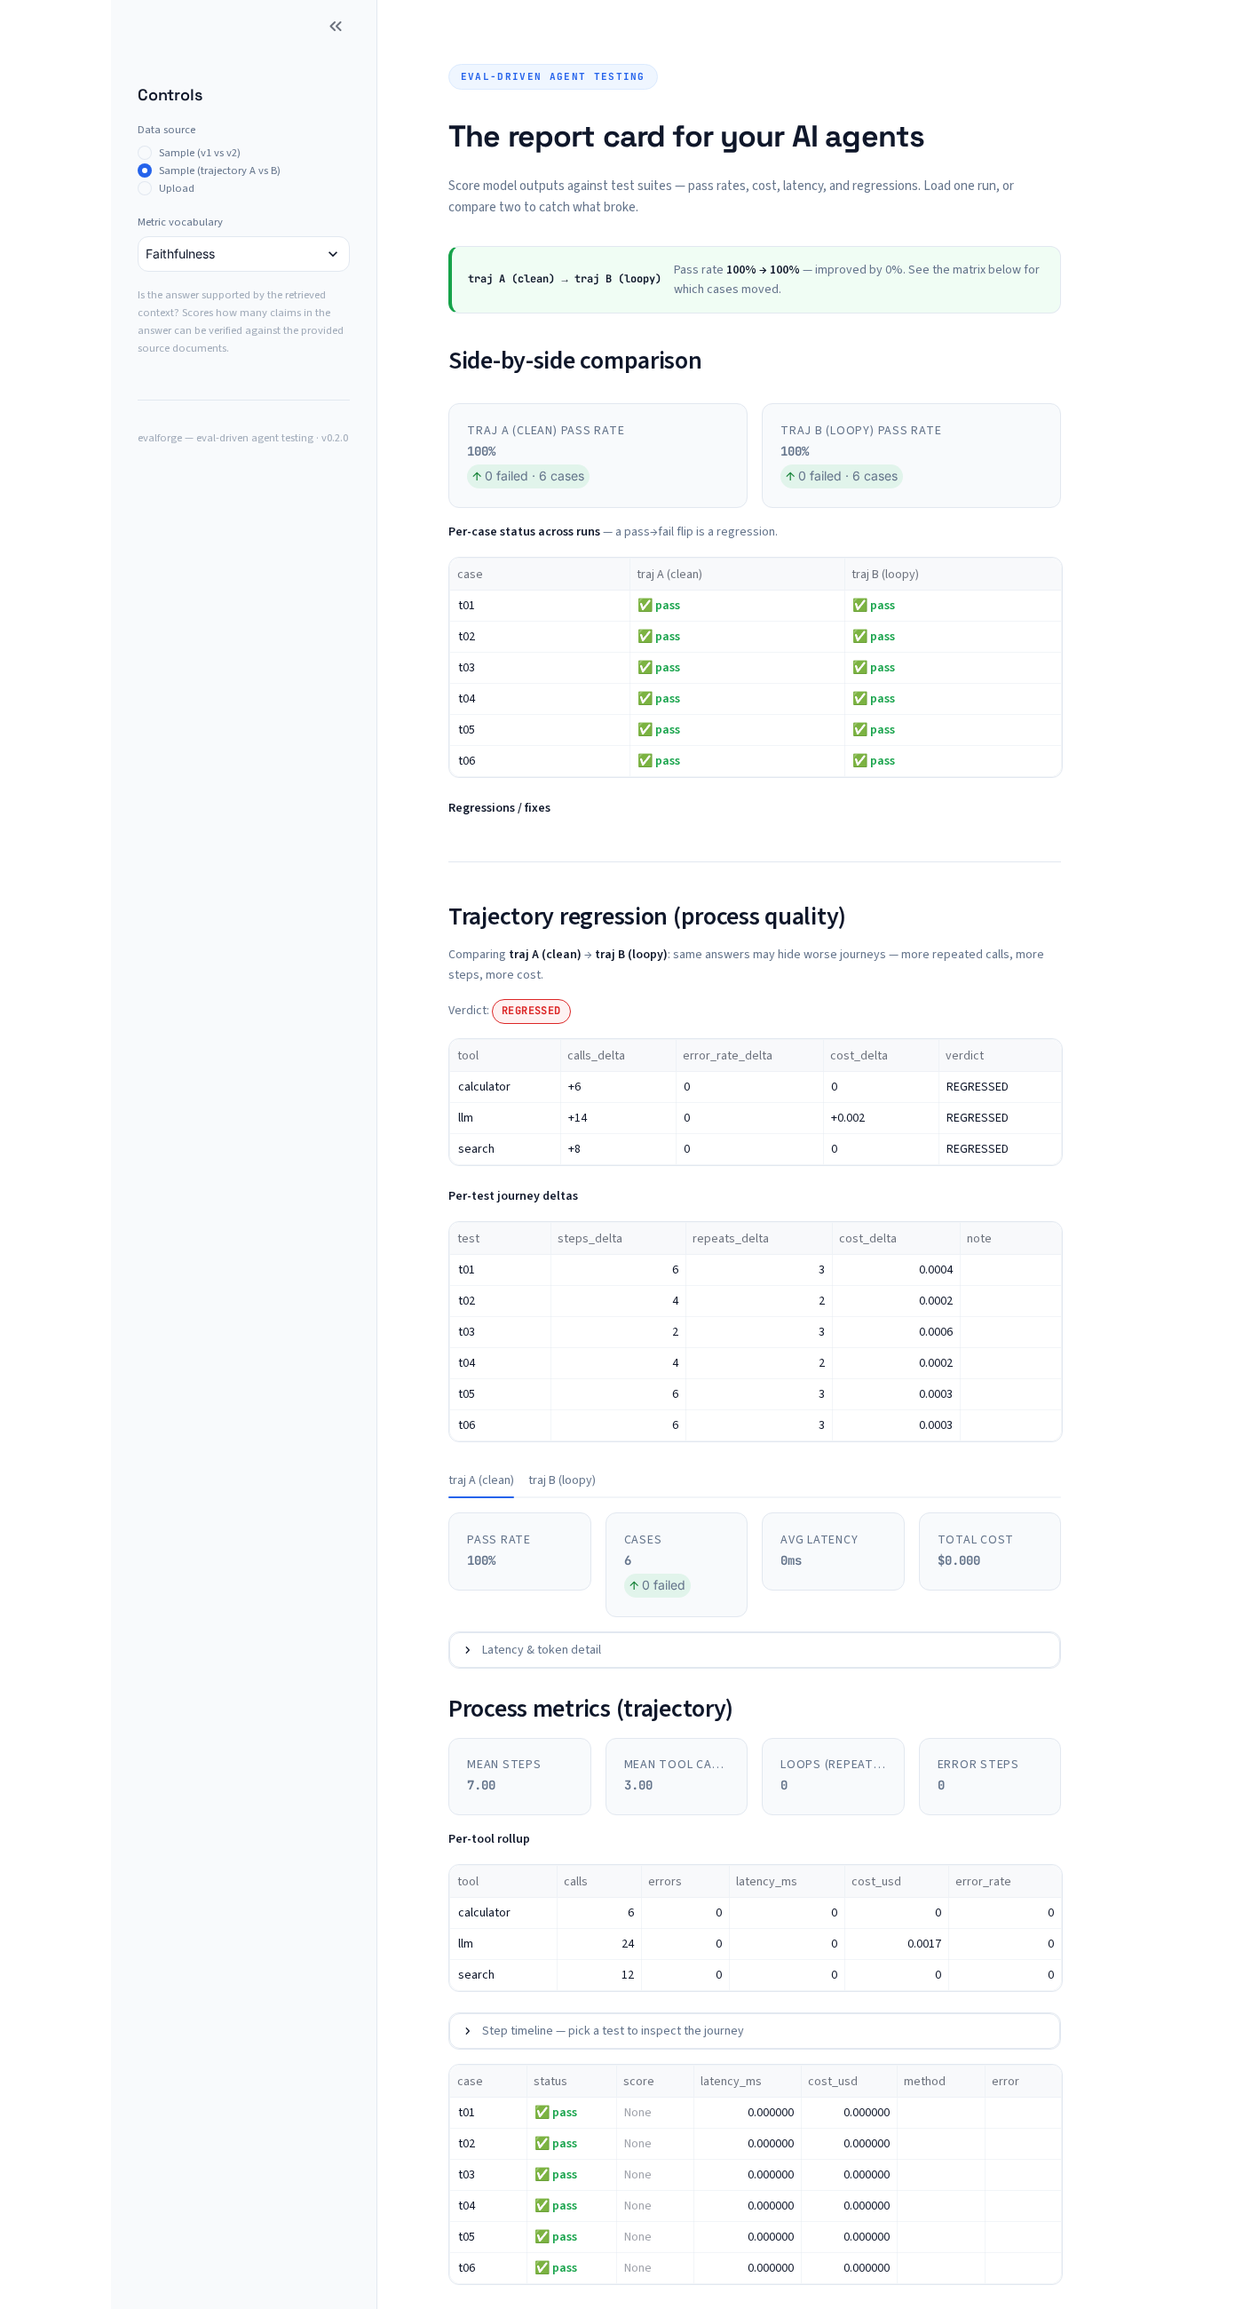
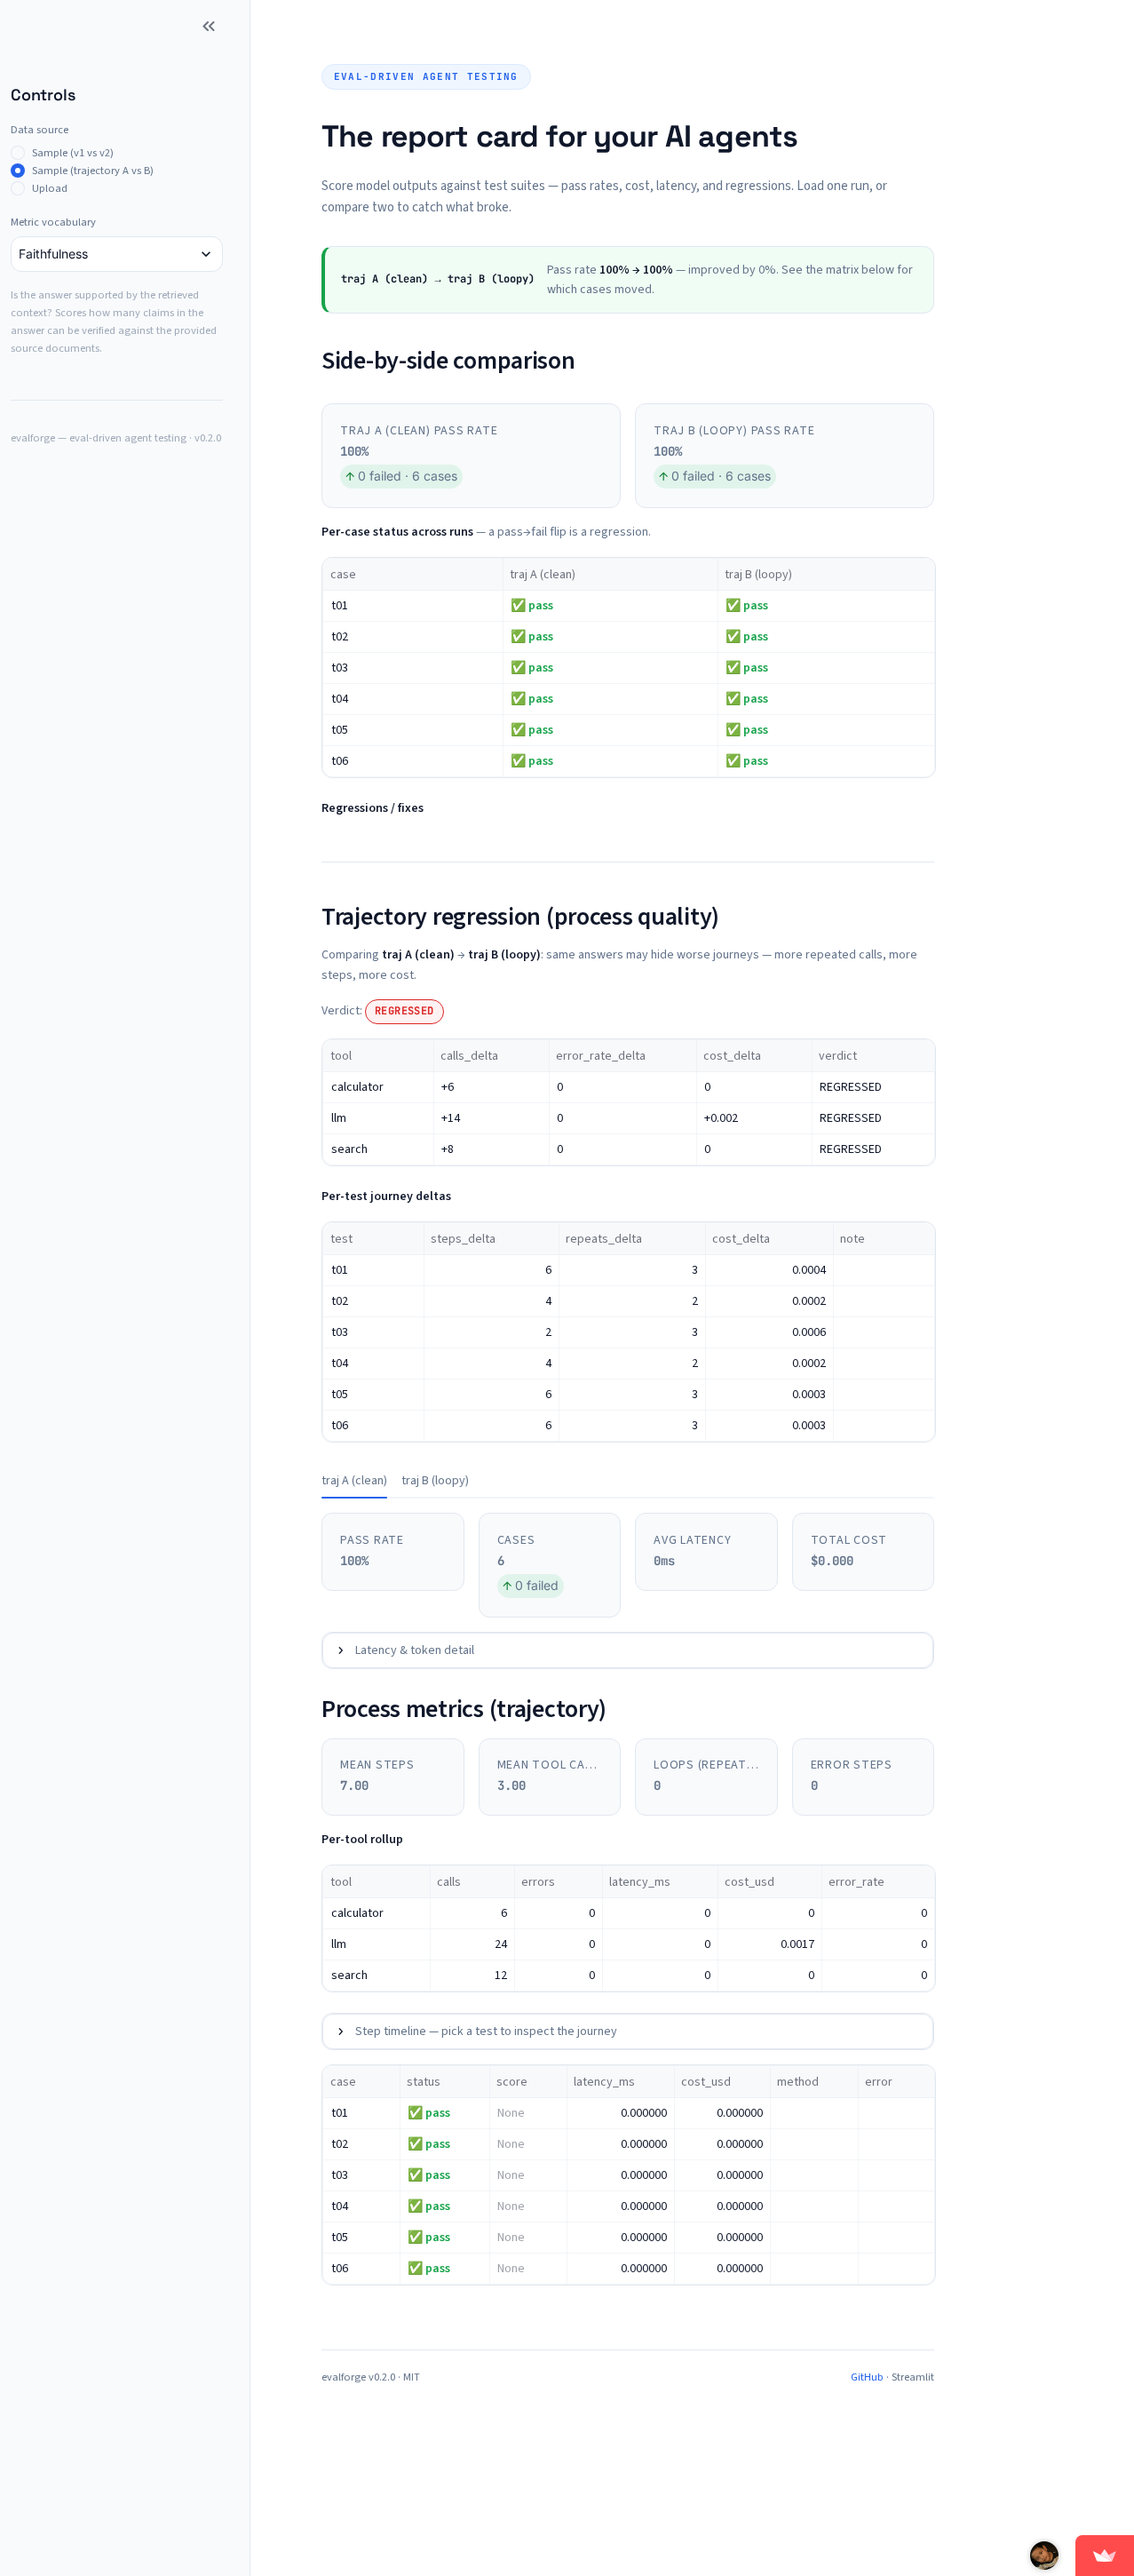
docs: rebuild README from ground up with fresh v0.2.0 screenshots
- New dashboard.png: live capture of current app (v1-vs-v2 comparison, pass-rate cards, regression matrix)
- New trajectory-compare.png: live capture of trajectory A-vs-B view (process metrics, verdict badge)
- Reorganized sections (What it does / Screenshots / Features / Web Dashboard / Versions)
- Added trajectory CLI commands to command table, trajectory layer to architecture diagram

diff --git a/README.md b/README.md
@@ -6,21 +6,21 @@
 </p>
 
 <h1 align="center">⚒ EvalForge</h1>
-<p align="center"><em>The report card for your AI agents.</em></p>
+<p align="center"><em>The report card for your AI agents — grades the answer <strong>and</strong> the journey.</em></p>
 
 <p align="center">
   <a href="https://evalforge-wmdbf6rtfxjzh668zugy9d.streamlit.app/"><strong>🚀 Try the Live Demo</strong></a> ·
-  <a href="#how-it-works"><strong>How it works</strong></a> ·
+  <a href="#what-it-does"><strong>What it does</strong></a> ·
   <a href="#quick-start"><strong>Quickstart</strong></a> ·
   <a href="#features"><strong>Features</strong></a> ·
-  <a href="#who-is-this-for"><strong>Who is this for</strong></a> ·
+  <a href="#versions"><strong>Versions</strong></a> ·
   <a href="SPEC.md"><strong>Spec</strong></a> ·
   <a href="ARCHITECTURE.md"><strong>Architecture</strong></a>
 </p>
 
 ---
 
-## What is this?
+## What it does
 
 **EvalForge checks whether AI agents actually work — before you trust them.**
 
@@ -33,11 +33,28 @@ Think of it as **unit tests for AI**. You define a list of questions your custom
 - How fast is it? How much does it cost per answer?
 - If you change your agent (new model, new prompt), did anything that used to work *break*?
 
+**v0.2.0 adds the journey:** beyond the final answer, EvalForge grades *how* the agent got there — steps taken, tool calls, loops, errors, and per-tool cost. Two versions can have the **same pass rate** and still differ massively in process. EvalForge catches that.
+
+---
+
+## Screenshots
+
+### Dashboard — compare two versions, catch regressions
+
 <div align="center">
   <a href="https://evalforge-wmdbf6rtfxjzh668zugy9d.streamlit.app/">
-    <img src="assets/dashboard.png" alt="EvalForge dashboard — comparing two versions of an AI agent and catching a regression" width="700">
+    <img src="assets/dashboard.png" alt="EvalForge dashboard — side-by-side comparison of two agent versions with pass-rate cards and a regression matrix" width="700">
   </a>
-  <p><em>Live app: compare two versions of an agent and catch regressions in seconds.</em></p>
+  <p><em>Live app: summary cards, per-case comparison table, and regressions flagged in red.</em></p>
+</div>
+
+### Trajectory view — grade the journey, not just the answer (v0.2.0)
+
+<div align="center">
+  <a href="https://evalforge-wmdbf6rtfxjzh668zugy9d.streamlit.app/">
+    <img src="assets/trajectory-compare.png" alt="EvalForge trajectory regression — same pass rate, worse process (loops), caught by process metrics" width="700">
+  </a>
+  <p><em>Process metrics per run, per-tool rollup, step timeline, and a REGRESSED / ok verdict on the journey.</em></p>
 </div>
 
 ---
@@ -58,17 +75,6 @@ Think of it as **unit tests for AI**. You define a list of questions your custom
 - **You define what "right" means** — no AI needed for that, just knowledge of your business
 - **EvalForge does the checking** — deterministically and consistently, every time
 - **The dashboard is the scoreboard** — see everything in one view, or compare two versions side-by-side
-
----
-
-## Who is this for?
-
-- **Founders** — prove your AI feature actually works before launch, and catch it silently degrading after
-- **ML/AI Engineers** who ship LLM features and need to show they work
-- **RAG pipeline builders** — evaluate retrieval + generation quality independently
-- **Multi-agent system architects** — benchmark orchestration quality
-- **Platform teams** who want a CI gate for LLM changes
-- **Freelancers** doing LLM integration — show clients measurable quality
 
 ---
 
@@ -104,24 +110,6 @@ evalforge compare run_a.json run_b.json --trajectory --fail-on-trajectory-regres
 streamlit run evalforge/ui/streamlit_app.py
 ```
 
-## 📊 Web Dashboard
-
-Explore evaluation results without touching the CLI. Load one run for metrics, or two runs for a side-by-side regression matrix. From v0.2.0 you can also load trajectory exports and compare **process quality**, not just final answers.
-
-**Live demo (v0.2.0):** https://evalforge-wmdbf6rtfxjzh668zugy9d.streamlit.app/
-
-- **Summary cards** — pass rate, case count, avg latency, total cost
-- **Per-case table** — status-highlighted results (pass/fail/error) with scores, latency, cost
-- **Regression matrix** — load v1 vs v2 and see exactly which cases flipped pass→fail (regression) or fail→pass (fixed)
-- **Trajectory report card** — process metrics per run: mean steps, mean tool calls, loop count, error steps, per-tool rollup (calls, errors, latency, cost)
-- **Step timeline** — every tool call with its args, result, latency, and errors
-- **Trajectory regression** — compare two runs on process quality with a REGRESSED/ok verdict: same pass rate, worse journey → caught (see the built-in sample)
-- **Latency percentiles** — p50/p95/p99 + token usage under the hood
-- **RAGAS-style metric presets** — industry-standard rubric vocabulary (faithfulness, answer relevancy, context precision, context recall, answer correctness) built in as LLM-judge rubric templates — no extra dependency
-- **Upload support** — drop in your own `RunResult` JSON files or trajectory exports, or use the built-in v1/v2 sample regression story and the trajectory A vs B sample
-
-<img src="assets/trajectory-compare.png" alt="EvalForge v0.2.0 trajectory regression — same pass rate, worse process (loops), caught by process metrics" width="700">
-
 ---
 
 ## Features
@@ -132,7 +120,7 @@ Explore evaluation results without touching the CLI. Load one run for metrics, o
 
 ### 🛤 Grade the journey, not just the answer (v0.2.0)
 - **Process report card** — every run gets process metrics: convergence, steps/tool-calls per task, loop count (identical repeated calls), tool validity, error recovery, per-tool cost & latency, budget adherence
-- **Trajectory regression** — compare two runs and get a REGRESSED/ok verdict on process quality: "pass rate identical, but the new version loops 3× more on hard questions" is caught automatically
+- **Trajectory regression** — compare two runs and get a REGRESSED / ok verdict on process quality: *"pass rate identical, but the new version loops 3× more on hard questions"* is caught automatically
 - **Capture how you like** — record as your agent runs (drop-in client shims, one-line `emit_step`), or import a trajectory JSON/JSONL export from any agent (OTel-style span shape accepted)
 - **Pure-code metrics** — no LLM-as-judge for process quality; every number is deterministic and reproducible
 - **CI gate on process** — `compare --trajectory --fail-on-trajectory-regression` exits 1 when the journey degrades even if pass rate holds
@@ -156,6 +144,24 @@ Explore evaluation results without touching the CLI. Load one run for metrics, o
 - **LLM Clients**: DeepSeek, OpenAI, Anthropic — add providers via base class
 - **Reporters**: JSON, Console, Diff — add formats via base class
 - **Trackers**: Cost, Latency — add metrics via base class
+
+---
+
+## Web Dashboard
+
+Explore evaluation results without touching the CLI. Load one run for metrics, or two runs for a side-by-side regression matrix. From v0.2.0 you can also load trajectory exports and compare **process quality**, not just final answers.
+
+**Live demo (v0.2.0):** https://evalforge-wmdbf6rtfxjzh668zugy9d.streamlit.app/
+
+- **Summary cards** — pass rate, case count, avg latency, total cost
+- **Per-case table** — status-highlighted results (pass/fail/error) with scores, latency, cost
+- **Regression matrix** — load v1 vs v2 and see exactly which cases flipped pass→fail (regression) or fail→pass (fixed)
+- **Trajectory report card** — process metrics per run: mean steps, mean tool calls, loop count, error steps, per-tool rollup (calls, errors, latency, cost)
+- **Step timeline** — every tool call with its args, result, latency, and errors
+- **Trajectory regression** — compare two runs on process quality with a REGRESSED / ok verdict: same pass rate, worse journey → caught (see the built-in sample)
+- **Latency percentiles** — p50/p95/p99 + token usage under the hood
+- **RAGAS-style metric presets** — industry-standard rubric vocabulary (faithfulness, answer relevancy, context precision, context recall, answer correctness) built in as LLM-judge rubric templates — no extra dependency
+- **Upload support** — drop in your own `RunResult` JSON files or trajectory exports, or use the built-in v1/v2 sample regression story and the trajectory A-vs-B sample
 
 ---
 
@@ -188,6 +194,8 @@ tests:
             weight: 0.3
 ```
 
+---
+
 ## CLI Commands
 
 | Command | Description |
@@ -195,45 +203,14 @@ tests:
 | `evalforge init` | Scaffold a new project with example suite |
 | `evalforge run <suite>` | Run a test suite against an LLM |
 | `evalforge compare <baseline> <candidate>` | Diff two runs (score, cost, latency) |
+| `evalforge compare --trajectory` | Diff two runs including process quality |
+| `evalforge import-trajectory <file>` | Import a trajectory export → process report card |
 | `evalforge gate` | CI gate — checks regression against baseline |
 | `evalforge --help` | Show all commands |
 
-## Architecture
+---
 
-```
-CLI Layer (typer)
-    └─▶ run | compare | gate | init
-            │
-Core Engine Layer
-    ├─ Executor (async + semaphore)
-    ├─ Scorer Registry
-    ├─ Trackers (cost + latency)
-    └─ Reporters (JSON, console, diff)
-            │
-Infrastructure Layer
-    ├─ LLM Client (httpx/async, multi-provider)
-    ├─ Config (YAML via pyyaml)
-    └─ Models (Pydantic v2)
-```
-
-## Configuration
-
-```yaml
-# evalforge.yaml
-baseline_dir: evalforge-baselines/
-suites:
-  - path: test-suites/example/suite.yaml
-    allowed_regression_pct: 5
-judge:
-  provider: deepseek
-  model: deepseek-chat
-target:
-  provider: deepseek
-  model: deepseek-chat
-concurrency: 10
-```
-
-## Test Suite Output
+## Example Output
 
 ```json
 {
@@ -259,15 +236,64 @@ concurrency: 10
 }
 ```
 
+---
+
+## Architecture
+
+```
+CLI Layer (typer)
+    └─▶ run | compare | gate | init | import-trajectory
+            │
+Core Engine Layer
+    ├─ Executor (async + semaphore)
+    ├─ Scorer Registry
+    ├─ Trackers (cost + latency)
+    └─ Reporters (JSON, console, diff)
+            │
+Trajectory Layer (v0.2.0)
+    ├─ Capture (client shims, emit_step, framework adapters)
+    ├─ Importers (own format, OTel-style spans, JSONL)
+    ├─ Metrics (pure code: convergence, loops, tool validity, recovery, per-tool rollup)
+    └─ Regression (per-tool/per-test deltas, verdict, CI gate)
+            │
+Infrastructure Layer
+    ├─ LLM Client (httpx/async, multi-provider)
+    ├─ Config (YAML via pyyaml)
+    └─ Models (Pydantic v2)
+```
+
+---
+
+## Configuration
+
+```yaml
+# evalforge.yaml
+baseline_dir: evalforge-baselines/
+suites:
+  - path: test-suites/example/suite.yaml
+    allowed_regression_pct: 5
+judge:
+  provider: deepseek
+  model: deepseek-chat
+target:
+  provider: deepseek
+  model: deepseek-chat
+concurrency: 10
+```
+
+---
+
 ## Built with
 
 - **Python 3.11+** — core engine (async, Pydantic v2)
 - **Streamlit** — web dashboard
 - **DeepSeek v4** — primary LLM provider (extensible to any OpenAI-compatible API)
 
+---
+
 ## Project Status
 
-**v0.2.0** — Trajectory-level evaluation: process metrics (convergence, efficiency, loops, validity, recovery, per-tool cost/latency), trajectory capture (shims, emit_step, import), trajectory regression with CI gate, and a dashboard trajectory view. Same pass rate, worse process → caught. See [Versions](#versions).
+**v0.2.0** — Trajectory-level evaluation: process metrics (convergence, efficiency, loops, validity, recovery, per-tool cost/latency), trajectory capture (shims, emit_step, import), trajectory regression with CI gate, and a dashboard trajectory view. **Same pass rate, worse process → caught.** See [Versions](#versions).
 
 ### Roadmap
 
@@ -284,6 +310,8 @@ concurrency: 10
 - [ ] Real-time streaming evaluation
 - [ ] Plugin system for custom scorers
 
+---
+
 ## Versions
 
 | Version | What it is | Release notes |
@@ -293,15 +321,20 @@ concurrency: 10
 
 **Live demo (v0.2.0):** https://evalforge-wmdbf6rtfxjzh668zugy9d.streamlit.app/ — try the trajectory sample from the sidebar ("Sample (trajectory A vs B)") to see the same-pass-rate-different-journey story.
 
+---
+
 ## References
 
 - [SPEC.md](SPEC.md) — Full behavior spec with acceptance criteria
 - [ARCHITECTURE.md](ARCHITECTURE.md) — Design, interfaces, extension points
-- [assets/dashboard.png](assets/dashboard.png) — Dashboard screenshot (v0.1)
-- [assets/trajectory-compare.png](assets/trajectory-compare.png) — Trajectory regression screenshot (v0.2)
+- [CHANGELOG.md](CHANGELOG.md) — Version history
+- [assets/dashboard.png](assets/dashboard.png) — Dashboard screenshot (v0.2.0)
+- [assets/trajectory-compare.png](assets/trajectory-compare.png) — Trajectory regression screenshot (v0.2.0)
 - [examples/gen_samples.py](examples/gen_samples.py) — Sample regression-story data generator
 - [examples/gen_demo_trajectories.py](examples/gen_demo_trajectories.py) — Real-agent trajectory generator (clean vs loop-prone)
 - [examples/trajectories_run_a.json](examples/trajectories_run_a.json) / [trajectories_run_b.json](examples/trajectories_run_b.json) — Committed demo trajectories (real DeepSeek run)
+
+---
 
 ## License
 
